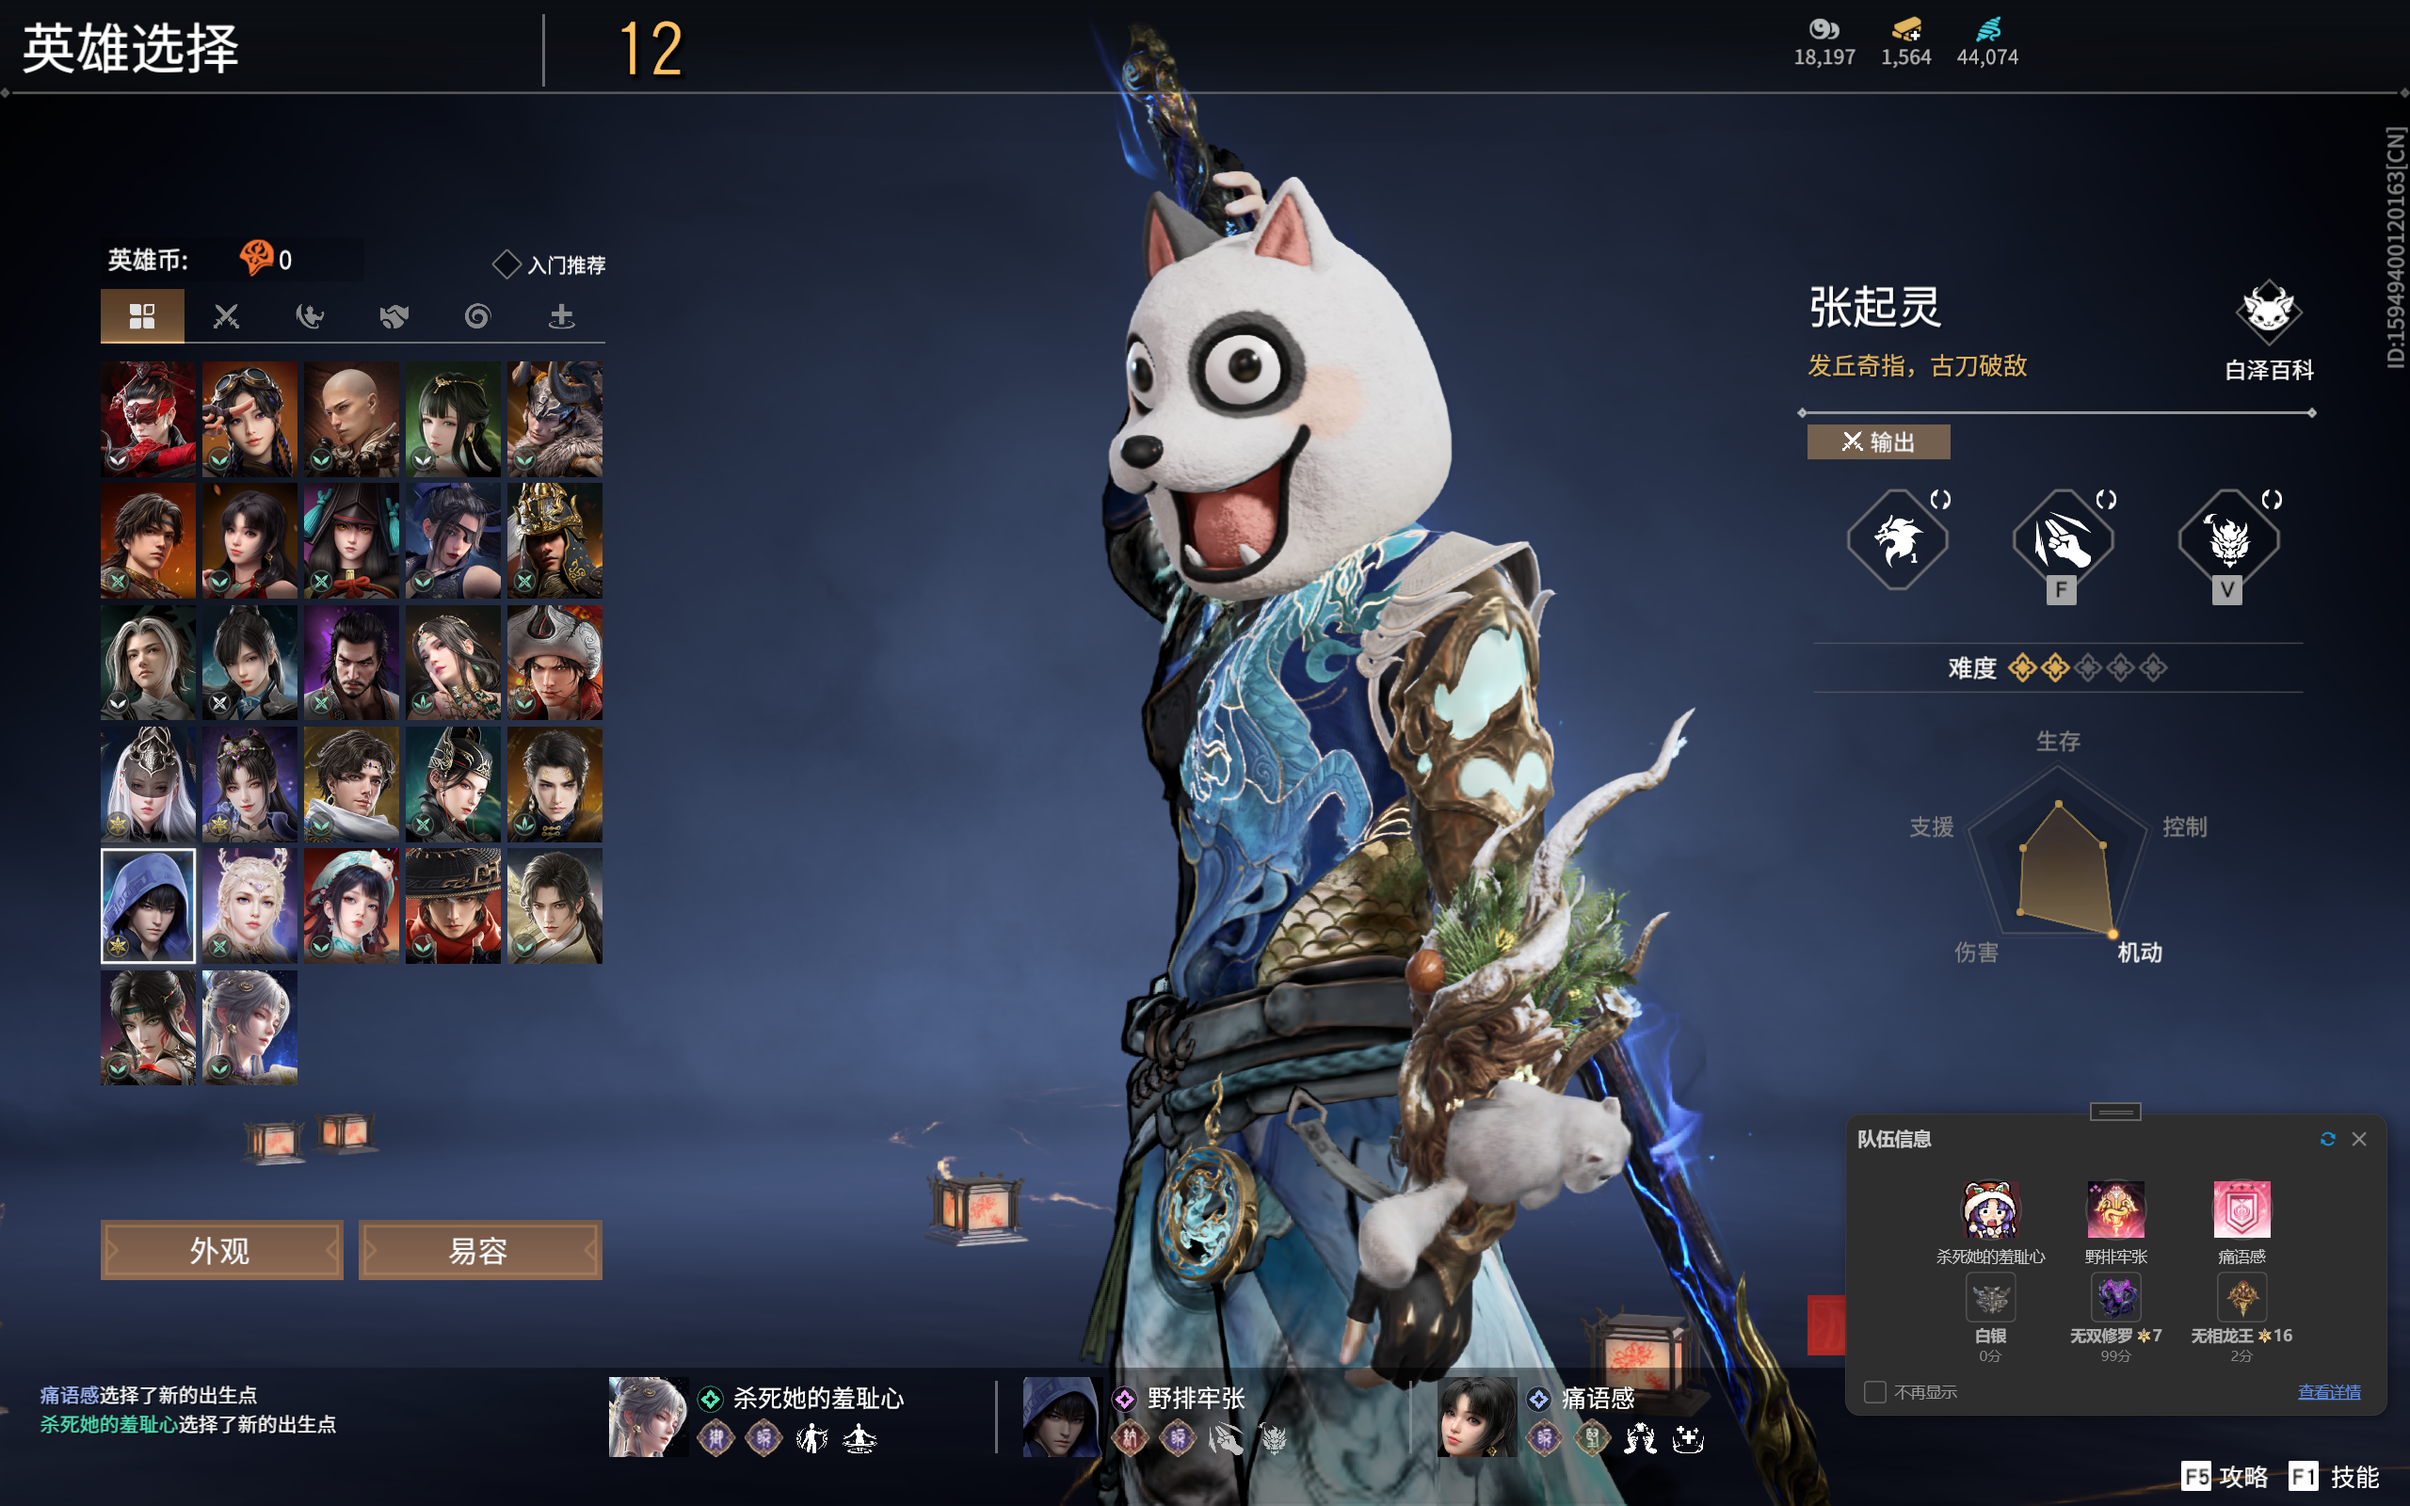
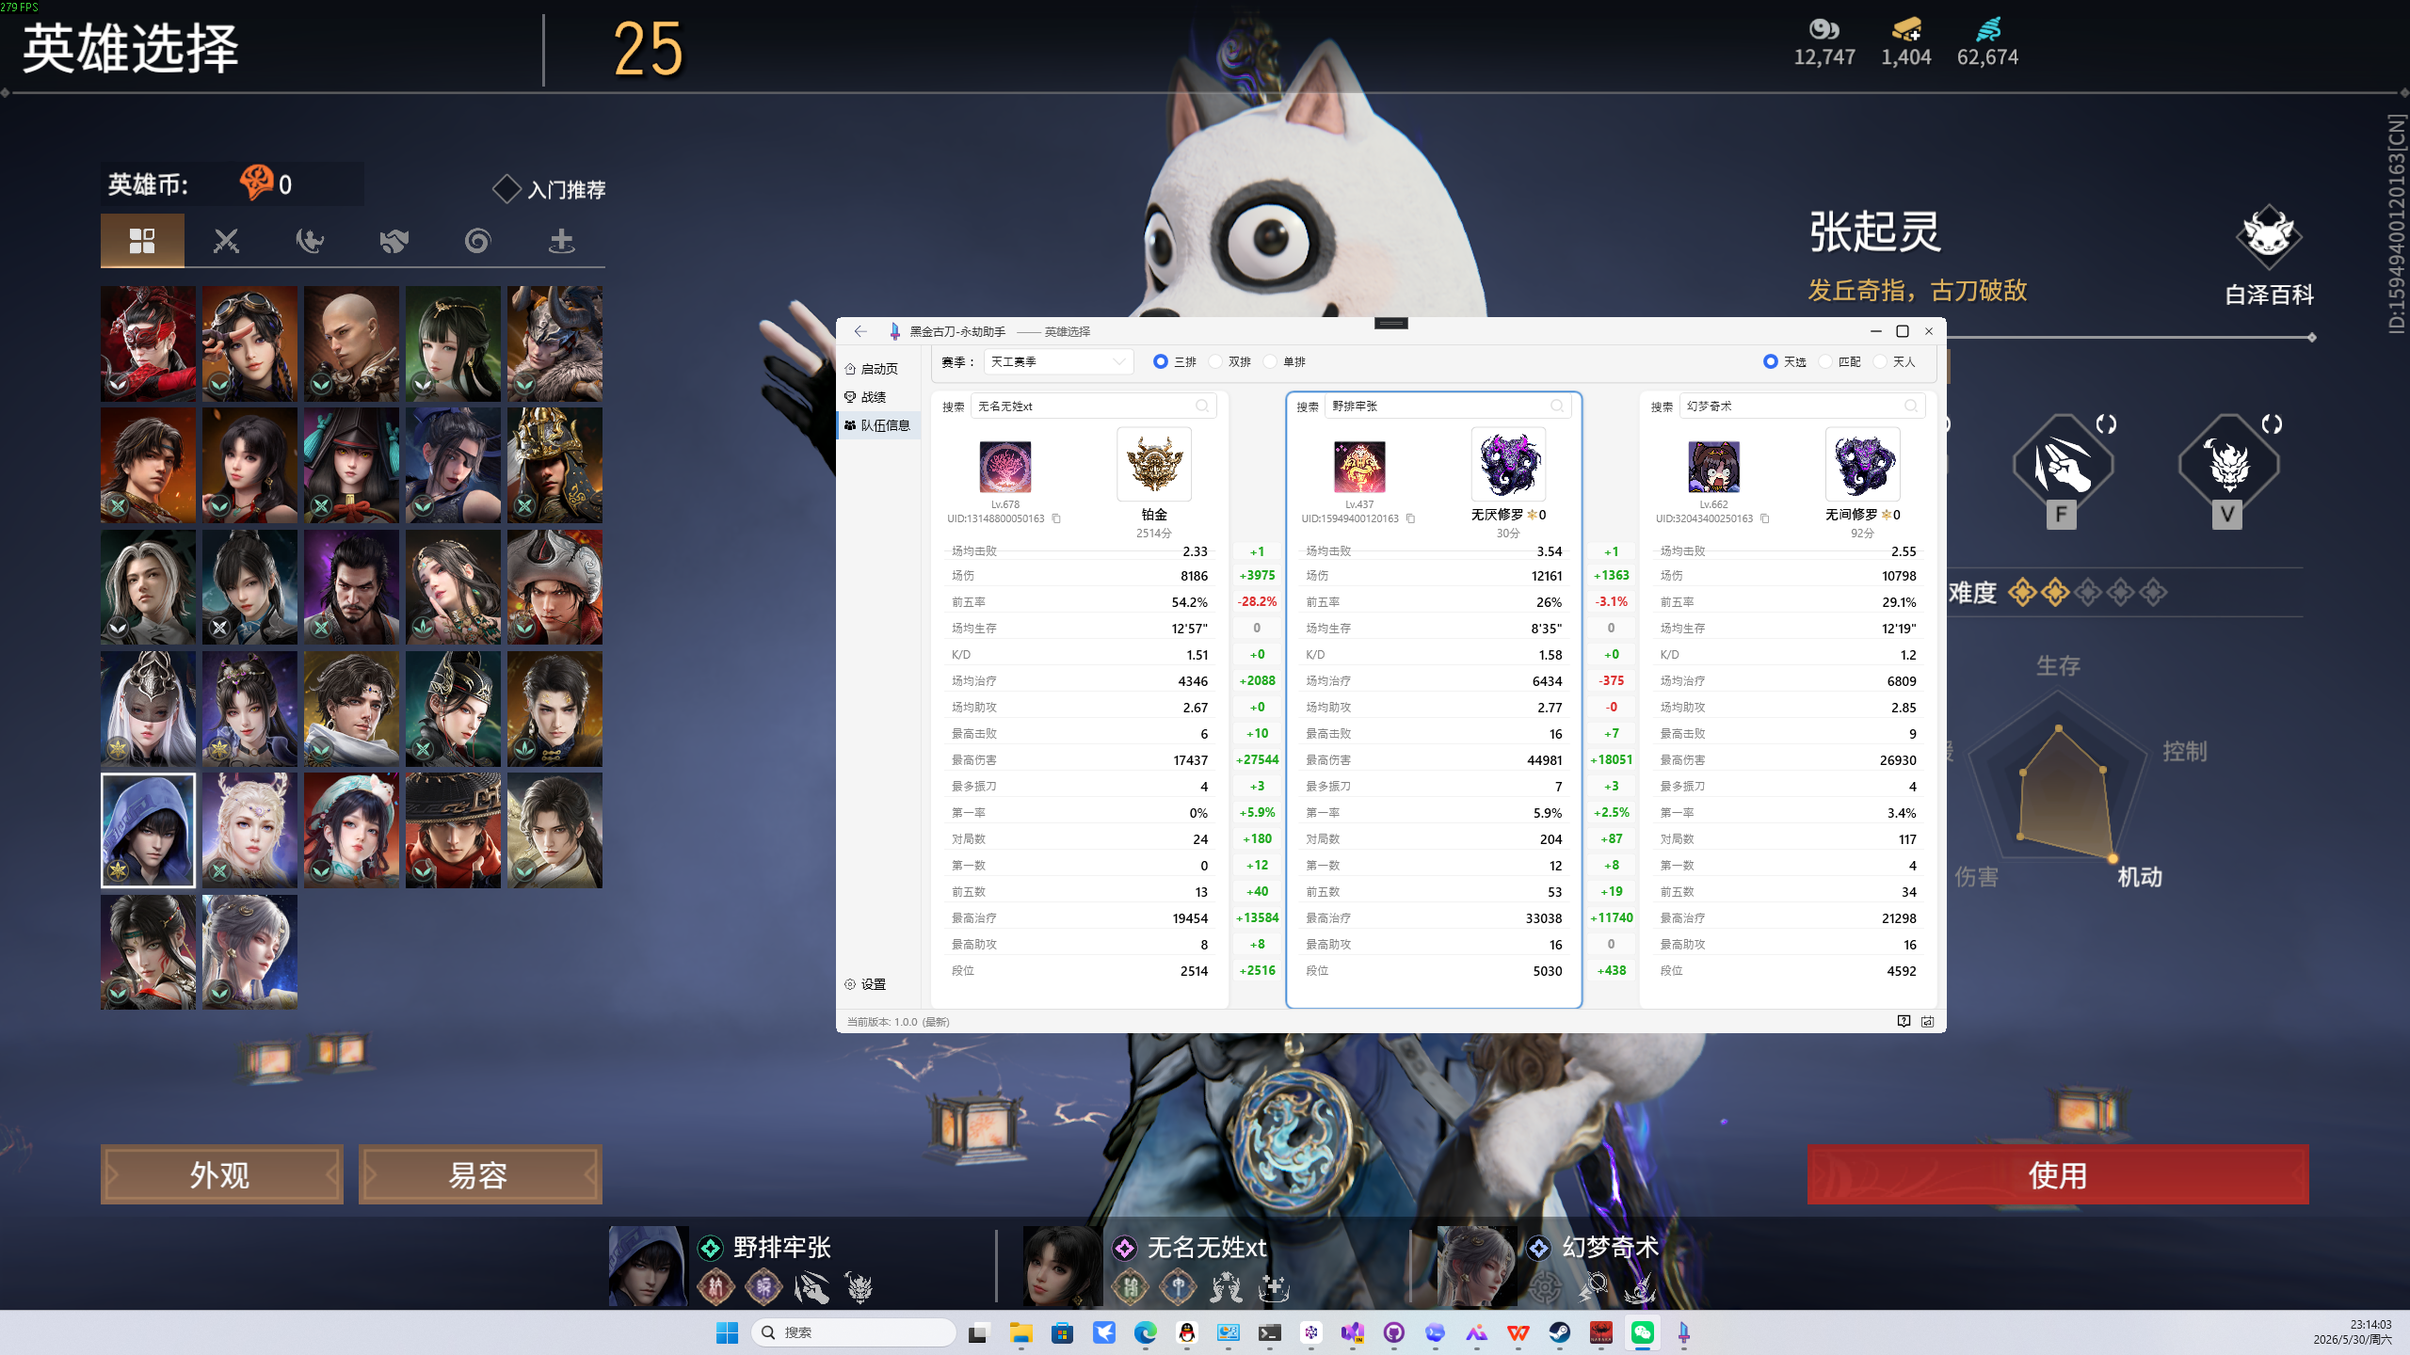
docs: 新增队伍信息识别效果截图到中英文 README
变更说明：
- 将桌面的 QQ20260619-132146.png 作为新的配图拷贝到 docs/images/03_team_info_recognition.png，该图展示了队伍信息 OCR 识别的实际效果
- 恢复 docs/images/03_team_info.png 为原始图片（上一条提交误将其替换为新截图，现还原）
- 中文 README.md 在"队伍信息 —— OCR 智能识别"章节新增队伍信息识别效果配图
- 英文 README.en.md 在"Team Info - OCR Recognition"章节新增 OCR recognition result 配图

diff --git a/src/BlackGoldAncientSword.App/README.en.md b/src/BlackGoldAncientSword.App/README.en.md
@@ -1,4 +1,4 @@
-# BlackGoldAncientSword — Naraka Bladepoint Stats Assistant
+# BlackGoldAncientSword — Naraka Bladepoint Stats Assistant
 
 > A desktop companion app for querying *NARAKA: BLADEPOINT* player statistics and match data.
 
@@ -54,6 +54,9 @@ When entering hero selection, the app uses **OCR to capture the screen and recog
 - Team info **locks** once the match starts
 
 ![Team Info screenshot](docs/images/03_team_info.png)
+
+![Team Info OCR recognition result](docs/images/03_team_info_recognition.png)
+
 
 ---
 

diff --git a/src/BlackGoldAncientSword.App/README.md b/src/BlackGoldAncientSword.App/README.md
@@ -1,4 +1,4 @@
-# 黑金古刀-永劫助手（BlackGoldAncientSword）
+# 黑金古刀-永劫助手（BlackGoldAncientSword）
 
 > 查询《永劫无间》（NARAKA: BLADEPOINT）玩家战绩数据的桌面辅助工具。
 
@@ -56,6 +56,9 @@
 - 在进入对局后**锁定队伍信息**，无需再次识别
 
 ![队伍信息截图](docs/images/03_team_info.png)
+
+
+![队伍信息识别效果](docs/images/03_team_info_recognition.png)
 
 > 可随时点击"重新识别队伍信息"按钮手动触发 OCR。
 
